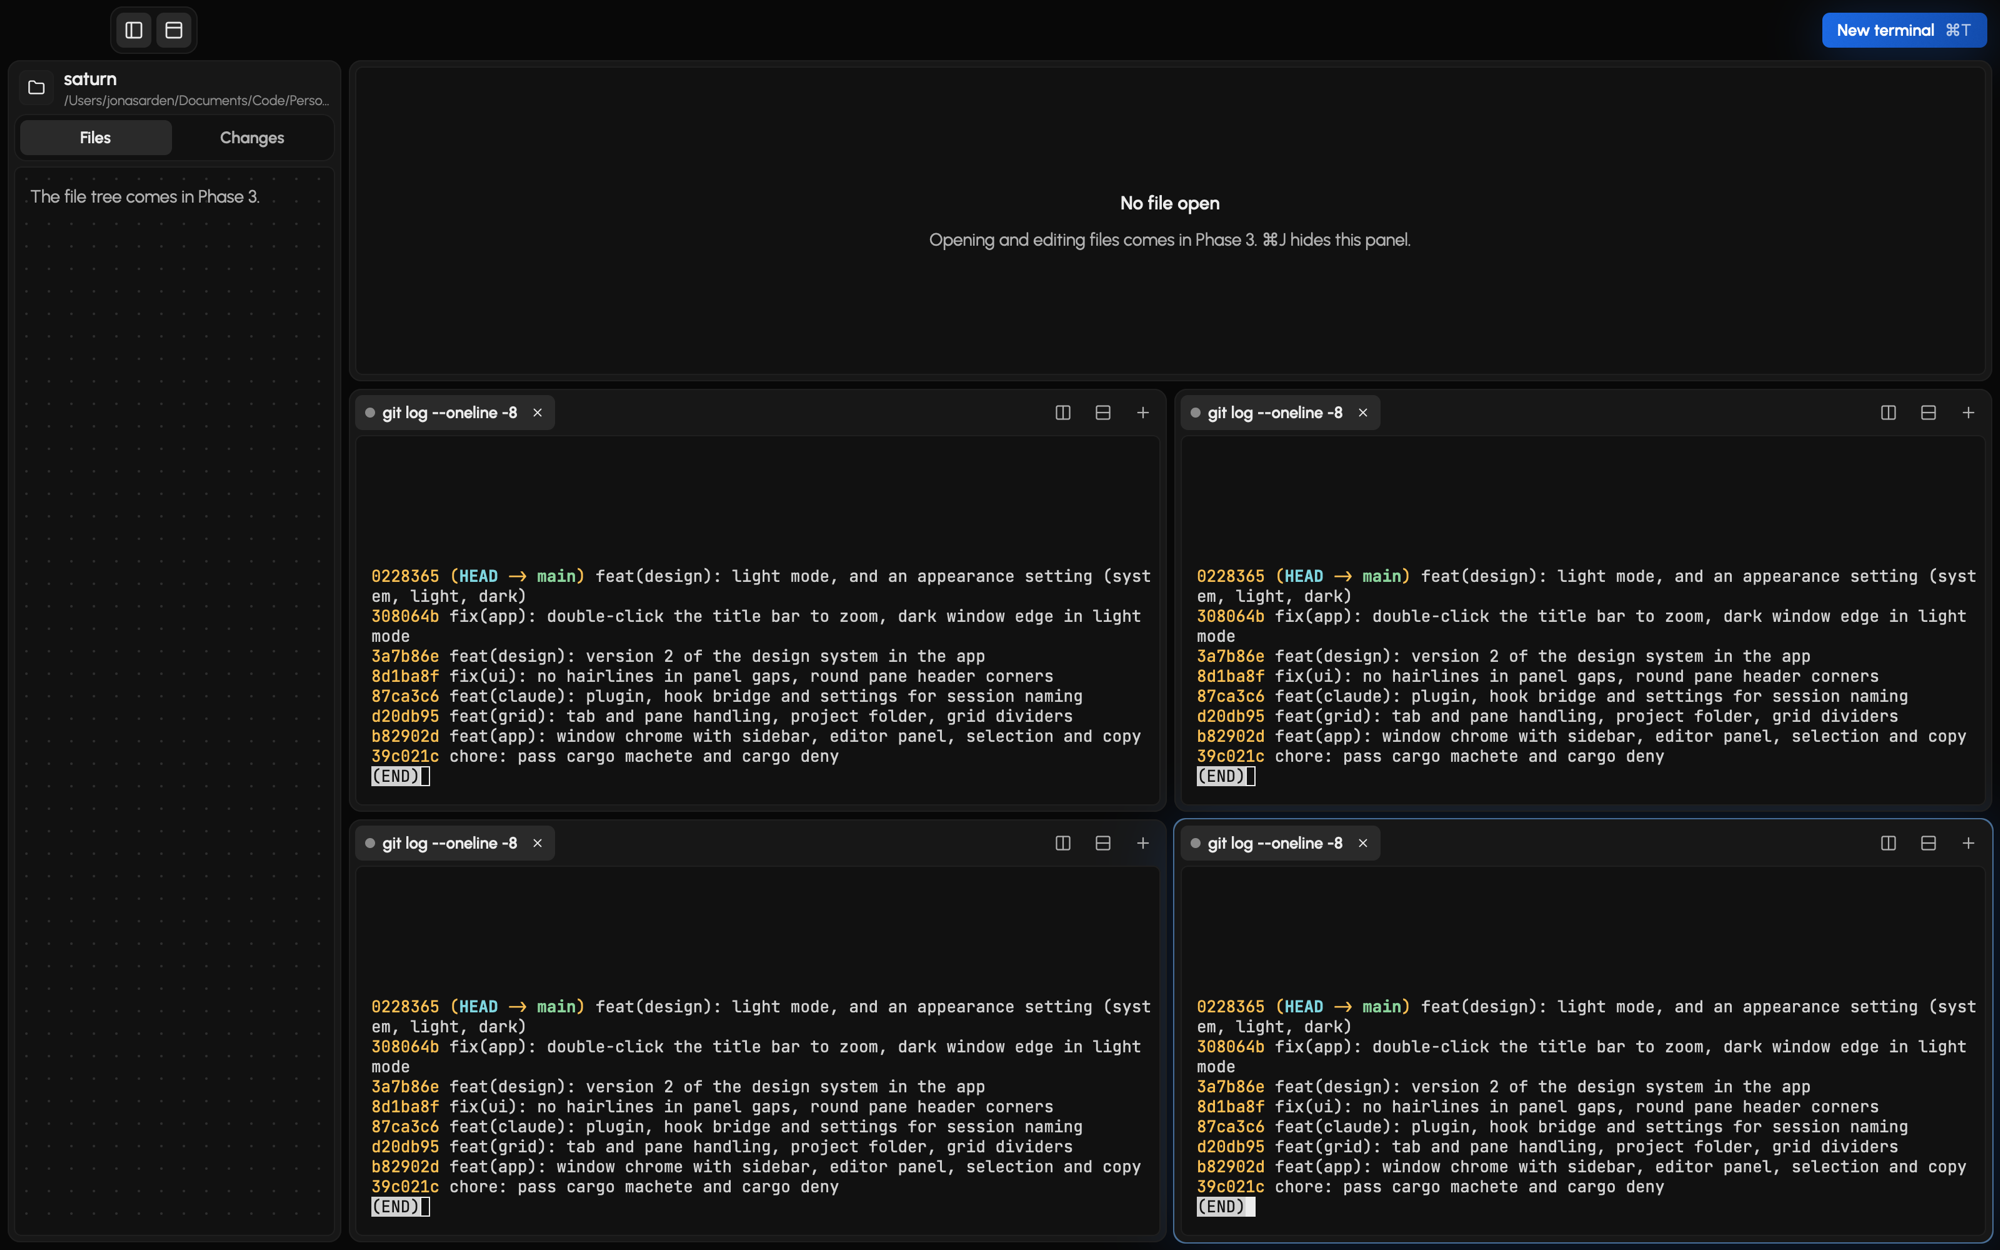
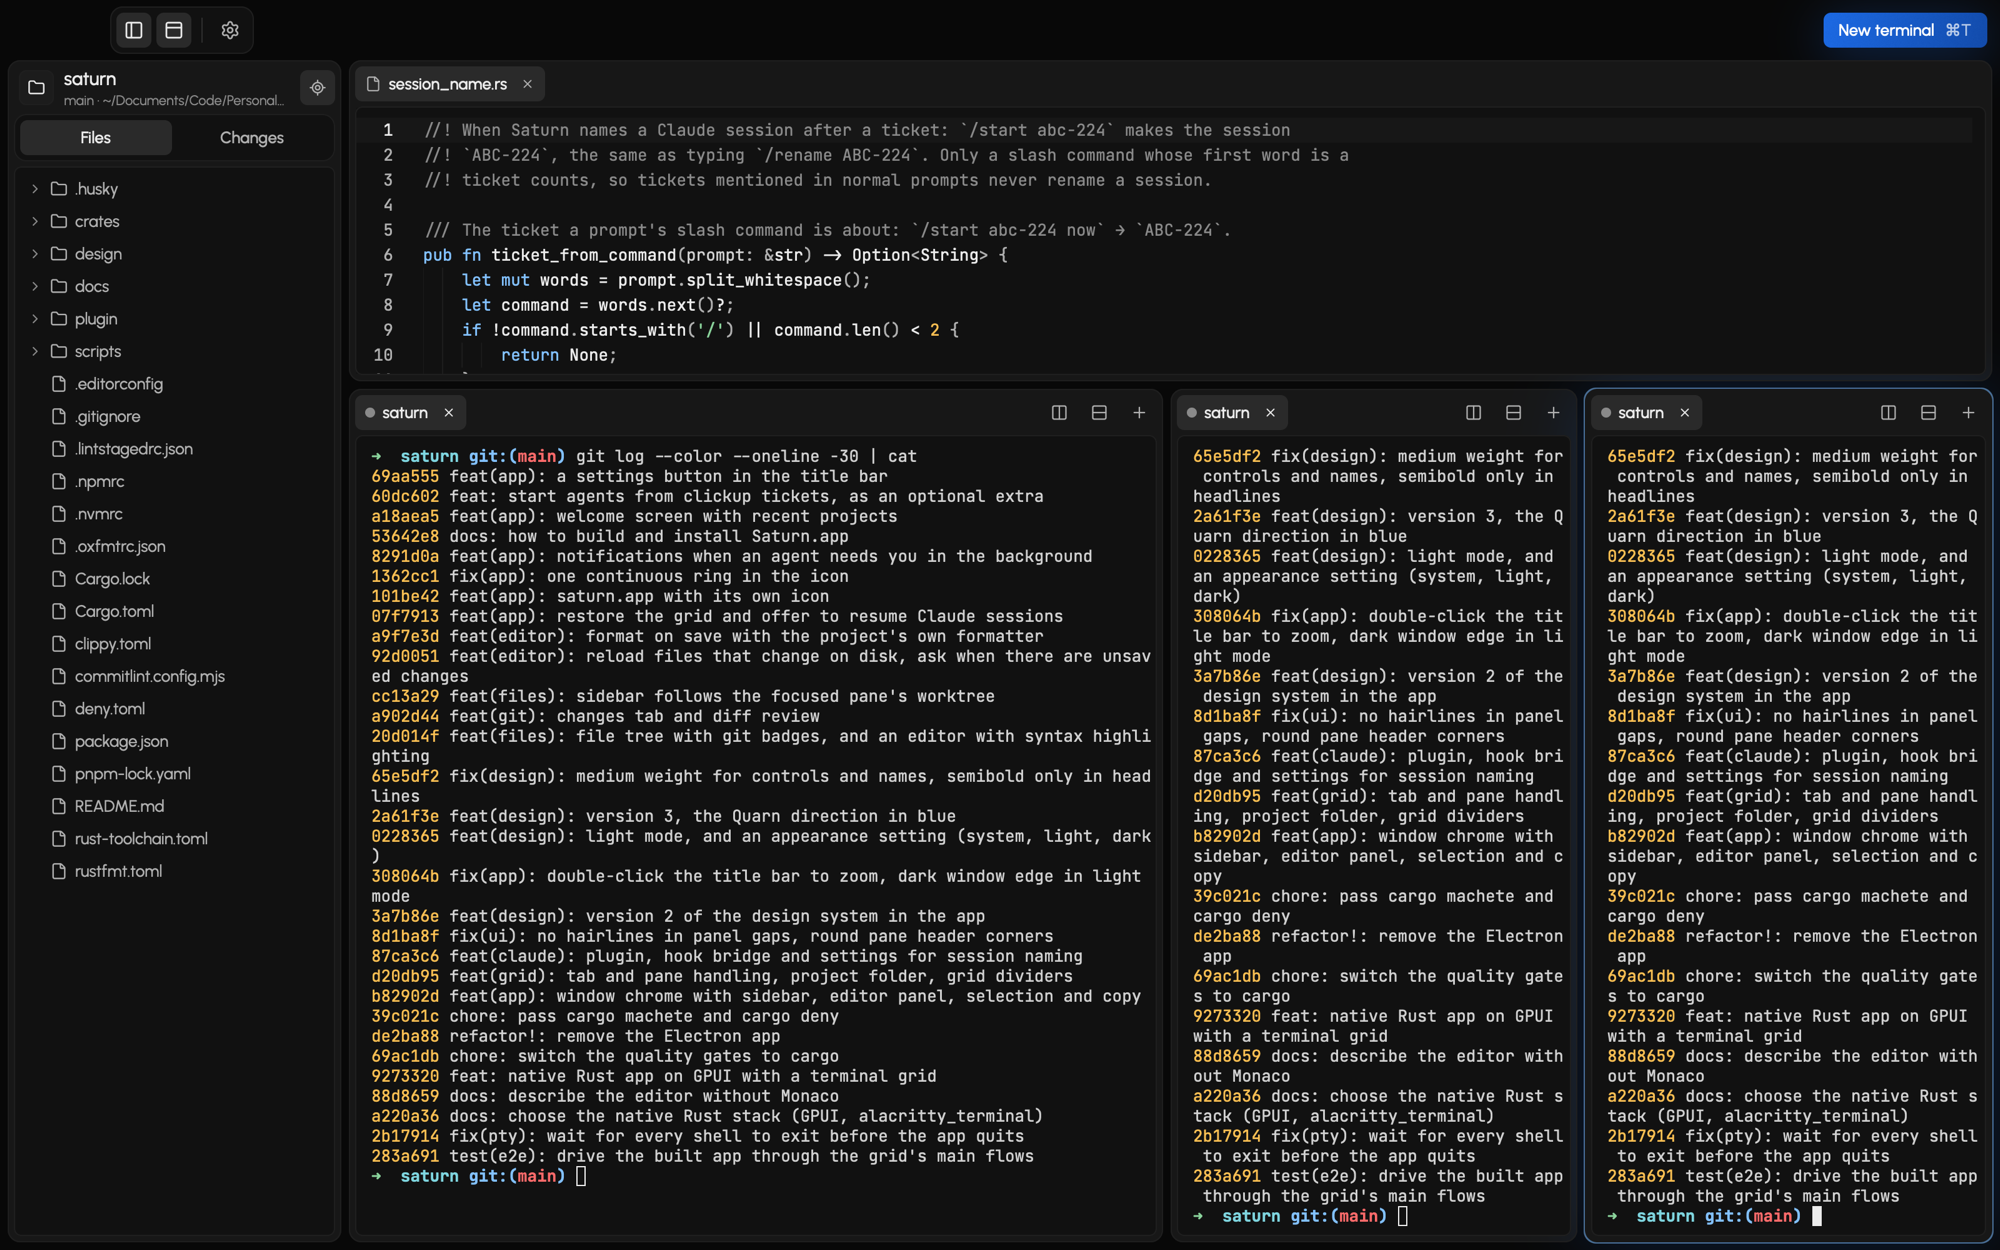
docs: a proper readme, a fresh screenshot and the mit licence

diff --git a/README.md b/README.md
@@ -1,53 +1,139 @@
+<div align="center">
+
+<img src="docs/images/icon.png" width="128" alt="Saturn's icon" />
+
 # Saturn
 
-A native macOS app for running many Claude Code agents side by side: a grid of terminals with tabs,
-a light editor, and a clear signal when an agent needs you. Written in Rust with GPUI.
+**A native macOS workbench for running many Claude Code agents side by side.**
 
-- What it is and why: [docs/01-overview.md](docs/01-overview.md)
-- The stack: [docs/05-rust-stack.md](docs/05-rust-stack.md)
-- The design system: [docs/04-design-system.md](docs/04-design-system.md)
+A grid of terminals, a light editor, a diff review, and a clear signal when an agent needs you.
+Native Rust on GPUI: no browser, no Electron.
+
+</div>
+
+![Saturn with three agents, an open file and the project's file tree](docs/images/saturn-window.png)
+
+## Why
+
+One Claude Code session is a terminal tab. Five of them are a juggling act: which one finished,
+which one is waiting on a permission prompt, which one broke the build. Saturn puts them all on one
+screen and tells you where to look, with the files and diffs they touch one click away.
+
+It isn't an IDE and doesn't try to replace yours. It's the place the agents live.
+
+## What it does
+
+- **A grid of terminals.** Split right (⌘D) and down (⌘⇧D), tabs in every pane, drag the dividers,
+  maximise one pane (⌘⇧↩). A real terminal underneath (alacritty's engine), so TUIs, colours and
+  mouse work as they should.
+- **Agents that tell you how they're doing.** Each tab shows whether its agent is working, idle,
+  waiting for you, or failed. The title bar counts them, ⌘⇧A jumps to the next one that needs you,
+  and macOS notifies you when Saturn is in the background.
+- **Tabs named after the session.** A tab takes the name of the Claude session running in it, or
+  one you type.
+- **Files and a light editor.** A gitignore-aware file tree with git badges, and an editor with
+  syntax highlighting that saves with your project's own formatter (Prettier, Biome, oxfmt or
+  rustfmt, whichever the project uses). Files an agent changes reload by themselves; if you have
+  unsaved edits, Saturn asks first.
+- **Review what changed.** The Changes tab lists every changed file, with a diff for each, for your
+  uncommitted work or for the whole branch.
+- **Follows the agent you're looking at.** Focus a pane that works in another git worktree, and the
+  sidebar switches to that worktree.
+- **Opens where you left off.** Each project's grid comes back as it was, and Saturn offers to
+  resume the Claude sessions that were running: the resume command is typed for you, never run.
+- **Light and dark.** It follows macOS, or you pick one.
+- **Optional: tickets from ClickUp.** Connect a token and ⌘⇧T lists the tickets assigned to you.
+  Pick one, and Saturn opens a pane (in its own worktree if you like) and starts your agent on it.
+  If you don't connect anything, none of this shows up.
+
+## Install
+
+Saturn builds from source and needs macOS, [rustup](https://rustup.rs),
+[pnpm](https://pnpm.io) and [Claude Code](https://claude.com/claude-code).
+
+```sh
+git clone https://github.com/itsjonasarden/saturn.git
+cd saturn
+pnpm install
+pnpm install-app      # builds Saturn.app and puts it in /Applications
+```
+
+Then open Saturn from Spotlight and pick a folder. Run `claude` in any pane.
+
+The app is signed for your own Mac only, so it isn't notarised for sharing. Rust's version is pinned in
+`rust-toolchain.toml`, and rustup installs it on the first build.
+
+## Shortcuts
+
+| Keys        | Does                                   |
+| ----------- | -------------------------------------- |
+| ⌘T          | New tab in the focused pane            |
+| ⌘D / ⌘⇧D    | Split right / down                     |
+| ⌘W          | Close tab                              |
+| ⌘1 … ⌘9     | Focus pane 1 to 9                      |
+| ⌘⌥ + arrows | Move focus between panes               |
+| ⌘⇧[ / ⌘⇧]   | Previous / next tab                    |
+| ⌘⇧↩         | Maximise the focused pane              |
+| ⌘⇧A         | Jump to the next agent that needs you  |
+| ⌘B / ⌘J     | Toggle the sidebar / the editor        |
+| ⌘O          | Open a project                         |
+| ⌘S          | Save the open file                     |
+| ⌘,          | Settings                               |
+| ⌘⇧T         | New agent from a ticket (with ClickUp) |
+
+## How it talks to Claude Code
+
+Saturn doesn't change your Claude Code setup. Every shell it opens gets `SATURN_SOCKET`,
+`SATURN_PANE_ID` and `CLAUDE_CODE_PLUGIN_DIRS`, so a `claude` started inside Saturn loads the small
+plugin in [`plugin/`](plugin) for that session only. The plugin's hooks tell the pane what the agent
+is doing (working, waiting for a permission, done, failed) and do nothing outside Saturn. Run
+`claude` in any other terminal and it's exactly as before.
+
+## Settings
+
+Open them with ⌘, or the gear in the title bar. They're stored in
+`~/Library/Application Support/Saturn/settings.json`.
+
+- **Appearance**: System, Light or Dark.
+- **Name tabs after Claude's session**: tabs show the session's name, or the folder when it's off.
+  A name you type yourself always wins.
+- **Name sessions after tickets**: a slash command whose first word is a ticket, like
+  `/start abc-224`, renames the session to `ABC-224`, the same as typing `/rename ABC-224`. Tickets
+  mentioned in normal prompts never rename anything.
+- **Format on save**, with the formatter your project already uses.
+- **Notifications** when an agent needs you while Saturn is in the background.
+- **ClickUp** (optional): your API token, kept in the macOS Keychain, plus, for each project, the
+  command a ticket starts (`claude -n {ticket}` by default) and whether it gets its own worktree.
 
 ## Develop
 
-Rust is pinned in `rust-toolchain.toml` (rustup installs it on first build). Node is only used for
-commit checks and formatting Markdown/JSON.
-
 ```sh
-pnpm install          # commit hooks and formatters
 pnpm dev              # build and run Saturn (cargo run -p saturn)
 pnpm health           # format check, clippy, tests, unused deps, licences
-pnpm dist             # build Saturn.app (signed for this Mac) in target/release
-pnpm install-app      # the same, then put it in /Applications
+pnpm dist             # build Saturn.app in target/release
 ```
 
-Saturn.app reopens each project's grid where it was left, offers to resume the Claude sessions that
-were running (the command is typed, not run), and posts a macOS notification when an agent needs you
-while Saturn is in the background.
+Node is only used for commit hooks and for formatting Markdown and JSON. Commits follow
+[Conventional Commits](https://www.conventionalcommits.org).
 
-| Crate                    | What it holds                                                                 |
-| ------------------------ | ----------------------------------------------------------------------------- |
-| `crates/saturn`          | The app: window, title bar, grid, shortcuts                                   |
-| `crates/saturn-terminal` | Shells in ptys, alacritty's engine, Claude Code's signals, the terminal view  |
-| `crates/saturn-core`     | Logic without UI: grid layout, agent states, OSC 7501, files, git, formatters |
-| `crates/saturn-design`   | Design tokens compiled from `design/tokens.json`                              |
+| Crate                    | What it holds                                                                |
+| ------------------------ | ---------------------------------------------------------------------------- |
+| `crates/saturn`          | The app: window, title bar, grid, sidebar, editor, settings                  |
+| `crates/saturn-terminal` | Shells in ptys, alacritty's engine, Claude Code's signals, the terminal view |
+| `crates/saturn-core`     | Logic without UI: grid layout, agent states, files, git, formatters, tickets |
+| `crates/saturn-design`   | Design tokens compiled from [`design/tokens.json`](design/tokens.json)       |
+| `crates/saturn-bridge`   | Where the plugin's hooks reach Saturn: a small HTTP server on a Unix socket  |
 
-## Claude Code integration
-
-Every pane's shell gets `SATURN_SOCKET`, `SATURN_PANE_ID` and `CLAUDE_CODE_PLUGIN_DIRS`, so a Claude
-session started in Saturn loads the plugin in [`plugin/`](plugin) for that session only; nothing
-is installed into Claude Code's own settings. The plugin's hooks report to the Saturn window the
-session runs in, and do nothing anywhere else.
-
-Settings (⌘,), saved in `~/Library/Application Support/Saturn/settings.json`:
-
-- **Name tabs after Claude's session** (on by default): tabs show the session's name. Off: the
-  folder, or a name typed by hand.
-- **Name sessions after tickets** (on by default): `/start abc-224`, or any slash command whose
-  first word is a ticket, renames the session to `ABC-224`, as `/rename` would. A name you gave
-  yourself is never replaced.
+More reading: [the design system](docs/04-design-system.md) and [the Rust stack](docs/05-rust-stack.md).
 
 ### Spikes and screenshots
 
 `SATURN_PANES=12 SATURN_COMMAND="node scripts/tui-load.mjs 30 14" SATURN_PERF=1 cargo run -p saturn --release`
 opens a busy grid and prints frame timings. With `--features capture`, `SATURN_SCREENSHOT=out.png`
 saves what the window draws.
+
+## Licence
+
+[MIT](LICENSE). Saturn bundles [Urbanist](https://github.com/coreyhu/Urbanist) and
+[JetBrains Mono](https://www.jetbrains.com/lp/mono/) (SIL Open Font Licence) and a few
+[Lucide](https://lucide.dev) icons (ISC).
